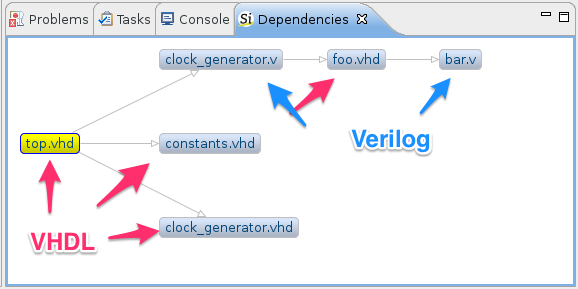
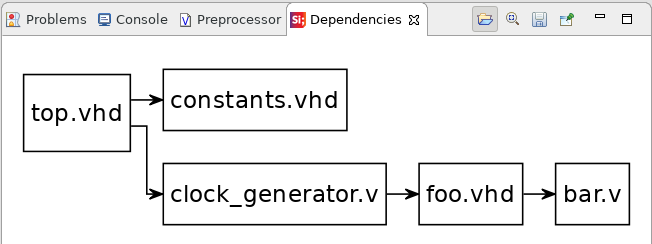
Improved documentation dependencies view

Changed region(s): [[0.0, 0.0, 1.0, 1.0], [0.5917, 0.4303, 0.7474, 0.5451]]

diff --git a/manual/views.md b/manual/views.md
@@ -186,12 +186,21 @@ You can watch a screencast at [/screencasts/state_machine_viewer]
 
 [xl_only]
 
-The **Dependencies View** visualizes the dependencies of the VHDL or Verilog file in the current editor.
-This view is automatically updated each time you save your files.
+The **Dependencies View** visualizes the dependencies of your VHDL, SystemVerilog or *mixed language* projects.
+This view shows the relationships between your source files and makes it easy to see *top levels* and important *packages*.
+The Dependencies View also makes it easy to detect *orphaned files*.
+
+The view is *automatically updated* each time you save your files.
 
 ![Dependencies View](images/dependencies-view.png "Dependencies View")
 
-If you are working on a mixed language project, the Dependencies View will also show cross language dependencies.
+To focus on the dependencies of the active editor only, uncheck the project button (![Dependencies View](images/dependencies-view_project.png)).
+
+The dependencies view can help you navigate too. Double click a file name in the diagram to open the corresponding editor.
+
+The dependencies View can also be pinned. This prevents the diagram from changing when you switch editors.
+
+You can export this diagram for documentation by clicking the save icon.
 
 # Documentation View {: #documentation}
 

diff --git a/releasenotes/sigasi-3.06.md b/releasenotes/sigasi-3.06.md
@@ -26,7 +26,7 @@ The animation below shows different **State Machine** Graphics Configurations ap
 Please find more details and tips on getting started in "[/tech/using-graphics-configuration]".  
 The syntax of the Graphics Configuration files is explained in "[/tech/graphics.ebnf]".
 
-# Improved Dependencies Viewer (VHDL)
+# Improved Dependencies Viewer
 
 Sigasi Studio's [dependencies view](/manual/views#dependencies) has a new skin. Its visuals are now in line with Block Diagram and Statemachine Views.  
 ![Old and New dependencies view](/releasenotes/3.6/dependencies_view.png)
